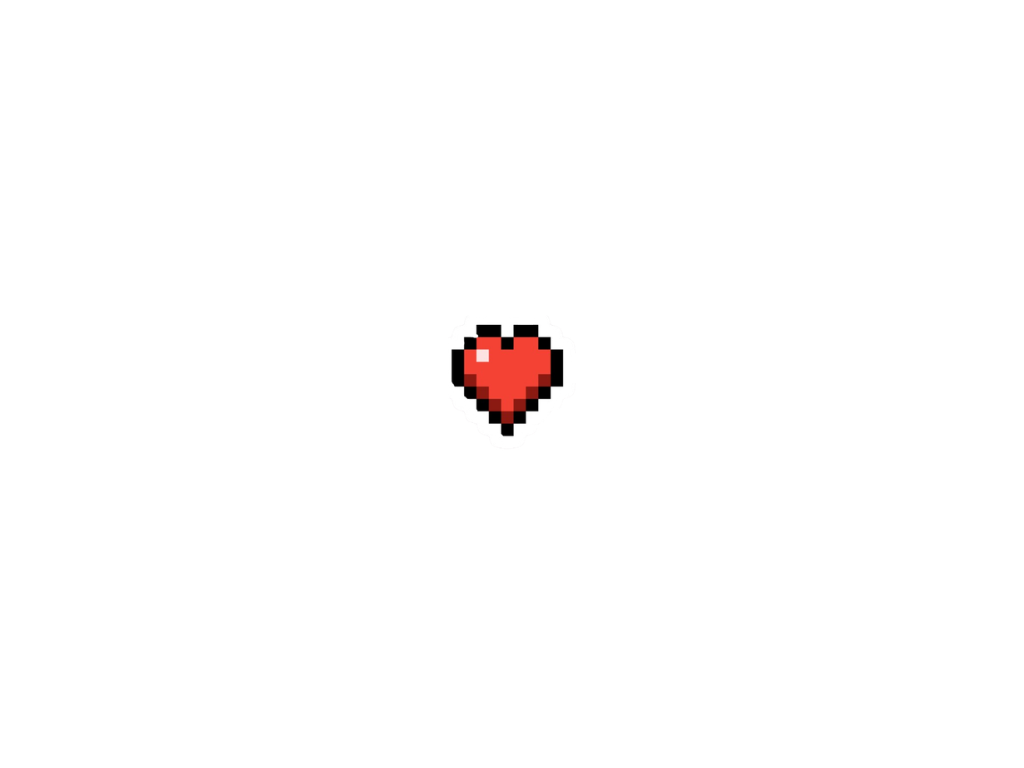
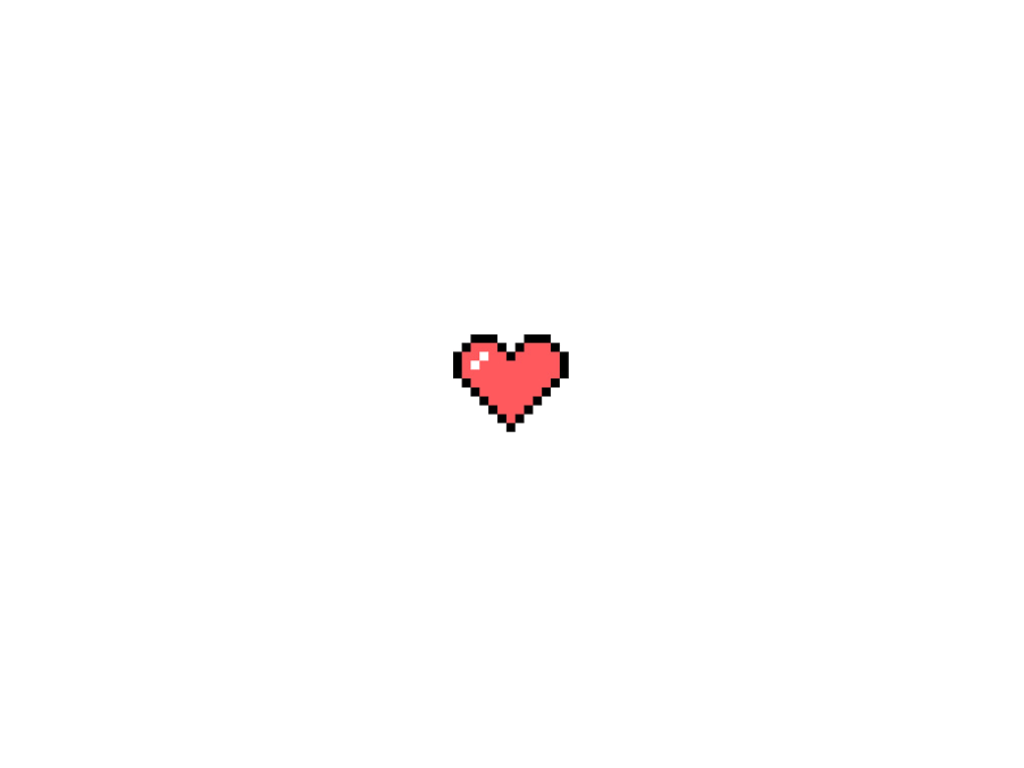
correcion errores <<no disparaba en nivel uno ya lo correji deje comentadas unas cositas>> agrego hud en nivel 2  cambio de sprites de corazon

Changed region(s): [[0.4375, 0.4062, 0.5625, 0.5625]]

diff --git a/codigo/vistaN2.cpp b/codigo/vistaN2.cpp
@@ -15,6 +15,7 @@
 #include "esbirro.h"
 #include "jefe.h"
 #include "proyectil.h"
+#include <QGraphicsColorizeEffect>
 
 namespace
 {
@@ -26,8 +27,8 @@ const double FPS_ANIMACION        = 10.0;
 
 vistaN2::vistaN2(QWidget* parent)
     : vistaNivel(parent),
-    nivel(), dibujoPersonaje(nullptr), dibujoJefe(nullptr), textoVidas(nullptr),
-    ultimaDirX(0), ultimaDirY(1), tiempoAnimacion(0.0), tiempoLanzando(0.0),
+    nivel(), dibujoPersonaje(nullptr), dibujoJefe(nullptr),barraJefeFondo(nullptr),barraJefeRelleno(nullptr),
+    barraJefeBorde(nullptr),efectoCuracionJefe(nullptr),ultimaDirX(0), ultimaDirY(1), tiempoAnimacion(0.0),tiempoLanzando(0.0),
     vidasPrevias(nivel.getPersonaje().getVidas()),
     jefeEstabaVivo(nivel.getJefe().estaVivo()),
     fortachonPrevio(nivel.getPersonaje().getFortachon() && nivel.getPersonaje().getTFortachon() > 0.0),
@@ -36,12 +37,12 @@ vistaN2::vistaN2(QWidget* parent)
     setUltimoNivel(true);
     escena->setSceneRect(0.0, 0.0, datos::ANCHO_ESCENA, datos::ALTO_ESCENA);
     setBackgroundBrush(Qt::black);
-    escena->setSceneRect(0.0, 0.0, datos::ANCHO_ESCENA, datos::ALTO_ESCENA);
-    setBackgroundBrush(Qt::black);
     cargarSprites();
     dibujarArena();
     dibujarJefe();
     dibujarPersonaje();
+    dibujarHUD(nivel.getPersonaje().getVidasMax());
+    crearBarraJefe();
     crearDibujos(nivel.getPersonaje().getEscudos(), dibujoEscudos, spriteEscudo);
     crearDibujos(nivel.getBalas(), dibujoBalas, spriteBala);
     crearEfectos();
@@ -49,10 +50,6 @@ vistaN2::vistaN2(QWidget* parent)
     crearHumos();
     crearAguas();
     crearEsbirros();
-    textoVidas = escena->addSimpleText(QString());
-    textoVidas->setBrush(Qt::white);
-    textoVidas->setPos(10.0, 10.0);
-    textoVidas->setZValue(10);
 }
 
 QVector<QPixmap> vistaN2::cargarListaFrames(const QString& carpeta, const QVector<int>& indices, double escala)
@@ -273,6 +270,12 @@ void vistaN2::dibujarJefe()
         dibujoJefe->setPos(c.getIzquierda(), c.getArriba());
     }
     dibujoJefe->setZValue(3);
+    efectoCuracionJefe = new QGraphicsColorizeEffect(this);
+    efectoCuracionJefe->setColor(QColor(70, 220, 110));
+    efectoCuracionJefe->setStrength(0.75);
+    efectoCuracionJefe->setEnabled(false);
+    if (dibujoJefe)
+        dibujoJefe->setGraphicsEffect(efectoCuracionJefe);
 }
 
 void vistaN2::crearEfectos()
@@ -303,6 +306,48 @@ void vistaN2::dibujarEfectos()
         switch (e.gettipo()) {
         case efecto::senal: it->setBrush(COLOR_SENAL); it->setZValue(6); break;
         default:            it->setBrush(COLOR_OTRO);  it->setZValue(2); break;
+        }
+    }
+}
+void vistaN2::crearBarraJefe()
+{
+    const double anchoBarra = 360.0;
+    const double altoBarra  = 18.0;
+    const double xBarra     = (datos::ANCHO_ESCENA - anchoBarra) / 2.0;
+    const double yBarra     = 14.0;
+
+    barraJefeFondo = escena->addRect(xBarra, yBarra, anchoBarra, altoBarra,
+                                     QPen(Qt::NoPen), QBrush(QColor(35, 35, 45, 220)));
+    barraJefeFondo->setZValue(100);
+
+    barraJefeRelleno = escena->addRect(xBarra, yBarra, anchoBarra, altoBarra,
+                                       QPen(Qt::NoPen), QBrush(QColor(210, 45, 45)));
+    barraJefeRelleno->setZValue(101);
+
+    barraJefeBorde = escena->addRect(xBarra, yBarra, anchoBarra, altoBarra,
+                                     QPen(Qt::white, 2.0), QBrush(Qt::NoBrush));
+    barraJefeBorde->setZValue(102);
+}
+void vistaN2::actualizarBarraJefe()
+{
+    if (!barraJefeRelleno || !barraJefeBorde)
+        return;
+    const jefe& j = nivel.getJefe();
+    const double vidaActual = std::max(0.0, double(j.getVida()));
+    const double vidaMax    = std::max(1.0, double(j.getVidaMax()));
+    const double proporcion = std::clamp(vidaActual / vidaMax, 0.0, 1.0);
+    const QRectF rectBase = barraJefeBorde->rect();
+    barraJefeRelleno->setRect(rectBase.x(), rectBase.y(),
+                              rectBase.width() * proporcion, rectBase.height());
+    const bool curando = j.estaCurando();
+    barraJefeRelleno->setBrush(curando ? QBrush(QColor(70, 200, 110))
+                                       : QBrush(QColor(210, 45, 45)));
+    if (efectoCuracionJefe && dibujoJefe) {
+        if (curando) {
+            const bool pulsoVerde = (int(tiempoAnimacion * 12.0) % 2) == 0;
+            efectoCuracionJefe->setEnabled(pulsoVerde);
+        } else {
+            efectoCuracionJefe->setEnabled(false);
         }
     }
 }
@@ -587,17 +632,8 @@ void vistaN2::dibujar(double)
     const bool curando = nivel.getJefe().estaCurando();
     dibujoJefe->setOpacity(curando ? 0.65 : 1.0);
 
-    const double tFort = cap.getTFortachon();
-    const bool fortachonActivo = cap.getFortachon() && tFort > 0.0;
-
-    textoVidas->setText(QString("Vidas: %1     Jefe: %2 / %3%4%5")
-                            .arg(cap.getVidas())
-                            .arg(nivel.getJefe().getVida())
-                            .arg(nivel.getJefe().getVidaMax())
-                            .arg(curando ? "   CURANDO" : "")
-                            .arg(fortachonActivo
-                                     ? QString("   FORTACHON (%1s)").arg(tFort, 0, 'f', 1)
-                                     : QString()));
+    actualizarHUD(nivel.getPersonaje().getVidas());
+    actualizarBarraJefe();
 }
 
 void vistaN2::actualizarDireccion()

diff --git a/codigo/nivel1.cpp b/codigo/nivel1.cpp
@@ -10,23 +10,23 @@ namespace
 const double ANCHO_NIVEL1 = 6800.0;        // ~60 s de recorrido
 const double VEL_MURO     = 95.0;          // px/s
 const double Y_SUELO      = 550.0;
-// ---- Proyectiles (placeholders: ajustar jugando) ----
-const double DX_DISPARO     = 450.0;   // donde nacen respecto al capitan: mas de media pantalla (400), fuera de vista
-const double VEL_PROYECTIL  = 300.0;   // px/s hacia la izquierda; igual para balas y lacrimogenas
-const double MASA_PROYECTIL = 1.0;     // la base exige > 0; no interviene en la fisica actual
+// Proyectiles
+const double DX_DISPARO     = 450.0;   // donde nacen respecto al capitan
+const double VEL_PROYECTIL  = 300.0;   // px/s hacia la izquierda
+const double MASA_PROYECTIL = 1.0;
 const double RADIO_PROYECTIL = 6.0;    // px; tambien decide si "nace dentro de un obstaculo"
 const int    LACRIMOGENA_REBOTES = 3;  // rebotes que sobrevive
 const double LACRIMOGENA_E       = 0.9;// restitucion: choque inelastico (pierde energia)
-const int    N_BALAS         = 10;     // tamano del pool = maximo de balas vivas a la vez
-const int    N_LACRIMOGENAS  = 5;      // idem
+const int    N_BALAS         = 10;     // maximo de balas vivas a la vez
+const int    N_LACRIMOGENAS  = 5;
 
-// ---- Ataques ----
+//  Ataques
 const int    N_ALTURAS          = 10;    // lugares desde donde se puede disparar
 const double ALTURA_MIN         = 110.0; // y del lugar mas alto
 const double PASO_ALTURA        = 45.0;  // separacion entre lugares (el mas bajo queda en 515)
 const int    ALTURAS_POR_ATAQUE = 5;     // cuantos lugares usa cada ataque (los mas cercanos al jugador)
-const int    BALAS_POR_ATAQUE   = 4;     // debe ser <= N_BALAS
-const int    LACRIS_POR_ATAQUE  = 3;     // debe ser <= N_LACRIMOGENAS
+const int    BALAS_POR_ATAQUE   = 4;
+const int    LACRIS_POR_ATAQUE  = 3;
 const double INTERVALO_DISPARO  = 0.55;  // s entre disparos de un mismo ataque
 const double ESPERA_ATAQUE      = 3.0;   // s entre el ultimo disparo y el ataque siguiente (tambien el primero)
 
@@ -42,7 +42,7 @@ nivel1::nivel1(int vidas_)
     anchoMapa(ANCHO_NIVEL1), muro(QPointF(0.0, 0.0), 40.0, Y_SUELO, VEL_MURO)
 {
     construirMapa();
-    //construirProy();
+    construirProy();
     construirBufos();
     const QPointF inicio(100.0, Y_SUELO - personaje.getRadio());
     personaje.setPosicion(inicio);
@@ -185,7 +185,7 @@ void nivel1::actualizar(double dt)
 
     const double limiteIzq = muro.getDerecha();
 
-    //lanzarProyectiles(dt);
+    lanzarProyectiles(dt);
     personaje.setEnNube(false);
     for (efecto& n : nubes) {
         if (!n.getactivo())
@@ -217,7 +217,7 @@ void nivel1::actualizar(double dt)
     }
     personaje.actualizar(dt);
     personaje.resolverPlataformas(plataformas);
-    //actualizarProyectiles(dt);
+    actualizarProyectiles(dt);
 }
 
 //ataques proyectiles

diff --git a/codigo/vistaN2.h b/codigo/vistaN2.h
@@ -9,7 +9,7 @@
 
 class QGraphicsRectItem;
 class QGraphicsPixmapItem;
-class QGraphicsSimpleTextItem;
+class QGraphicsColorizeEffect;
 class QMouseEvent;
 
 class vistaN2 : public vistaNivel
@@ -26,8 +26,10 @@ private:
     QVector<QGraphicsPixmapItem*> dibujoHumos;
     QVector<QGraphicsPixmapItem*> dibujoAguas;
     QVector<QGraphicsPixmapItem*> dibujoEsbirros;
-    QGraphicsSimpleTextItem* textoVidas;
-
+    QGraphicsRectItem* barraJefeFondo;
+    QGraphicsRectItem* barraJefeRelleno;
+    QGraphicsRectItem* barraJefeBorde;
+    QGraphicsColorizeEffect* efectoCuracionJefe;
     // Sprites Capitán N2
     QPixmap spriteAbajoQuieto;
     QVector<QPixmap> framesAbajoCaminar;
@@ -95,6 +97,8 @@ private:
     void crearEsbirros();
     void dibujarEsbirros();
     void actualizarDireccion();
+    void crearBarraJefe();
+    void actualizarBarraJefe();
     const QPixmap& elegirFrameCapitan() const;
 
 protected:
